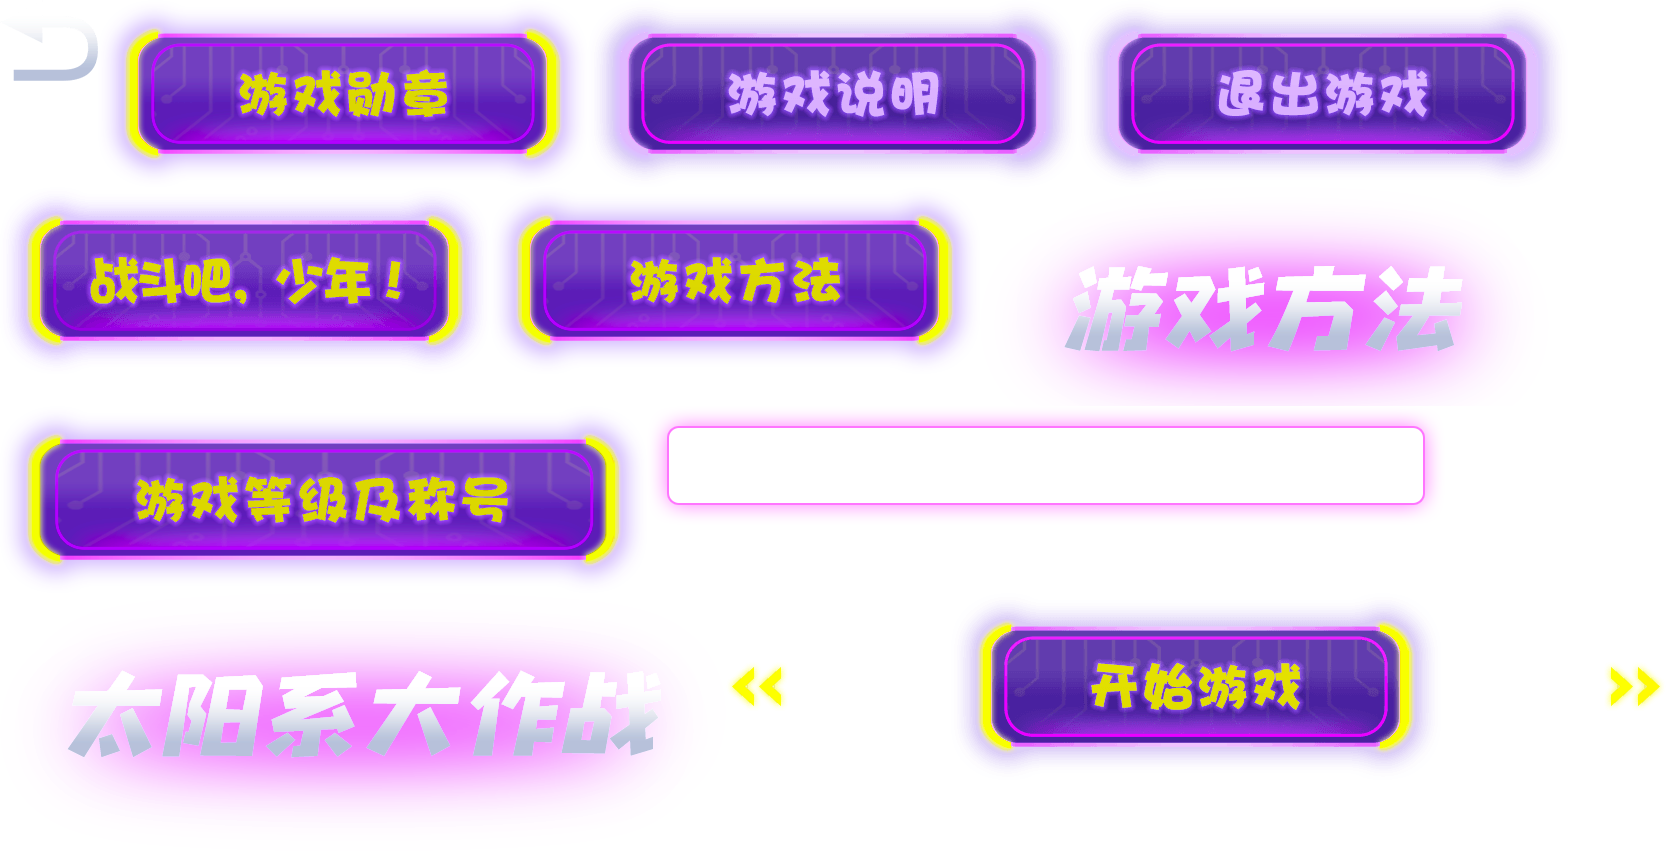
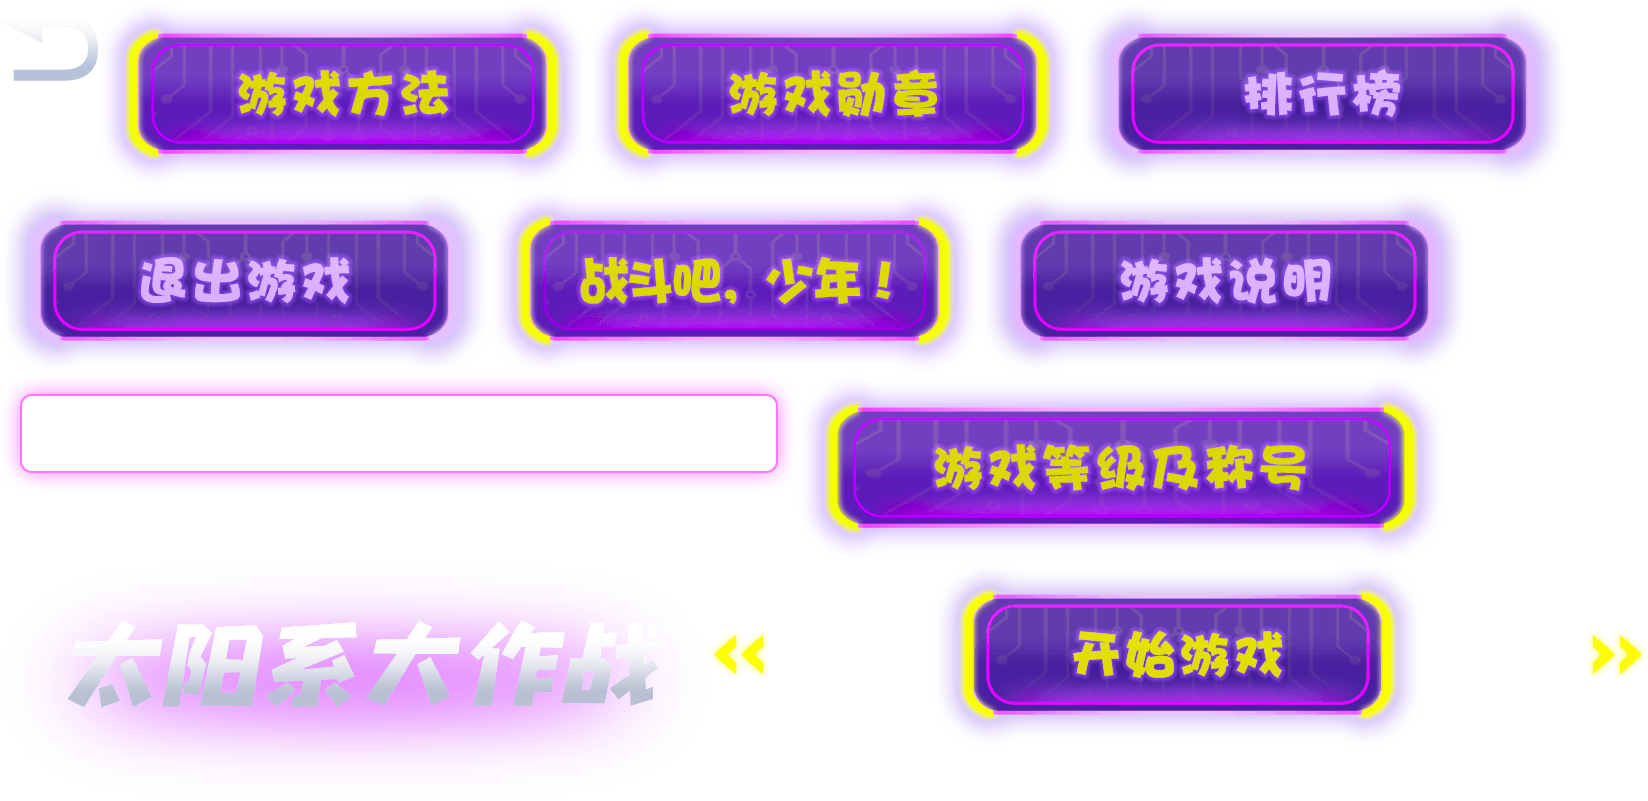
昵称为空判断

diff --git a/src/dlScene.js b/src/dlScene.js
@@ -200,6 +200,27 @@ var dlLayer = cc.Layer.extend({
                     // cc.director.runScene( new mainGameScene( ) );
                     var userName=nickName.getString();
                     var userPwd=pwd.getString();
+                    if(userName==""){
+                        var errorImg=new cc.Sprite("res/error.png");
+                        errorImg.attr({
+                            x:visibleOrigin.x+visibleSize.width/2,
+                            y:visibleOrigin.y+visibleSize.height/2
+                        });
+                        errorImg.setTag(1);
+                        layer.addChild(errorImg,10);
+                        var text = new ccui.Text("昵称不能为空", "Microsoft Yahei", 35);
+                        text.attr({
+                            x:visibleOrigin.x+visibleSize.width/2,
+                            y:visibleOrigin.y+visibleSize.height/2
+                        });
+                        text.setTag(2);
+                        layer.addChild(text,10);
+
+                        setTimeout(function(){
+                            layer.removeChildByTag(1);
+                            layer.removeChildByTag(2);
+                        },1000)
+                    }
                     console.log(userName,userPwd);
                         $.ajax({
                             type: "post",

diff --git a/src/playGameScene.js b/src/playGameScene.js
@@ -131,6 +131,27 @@ var playGameLayer = cc.Layer.extend({
                 // cc.director.runScene( new mainGameScene( ) );
                 // 获取用户输入昵称
                 var userName=nickNameInfo.getString();
+                if(userName==""){
+                    var errorImg=new cc.Sprite("res/error.png");
+                    errorImg.attr({
+                        x:visibleOrigin.x+visibleSize.width/2,
+                        y:visibleOrigin.y+visibleSize.height/2
+                    });
+                    errorImg.setTag(1);
+                    layer.addChild(errorImg,10);
+                    var text = new ccui.Text("昵称不能为空", "Microsoft Yahei", 35);
+                    text.attr({
+                        x:visibleOrigin.x+visibleSize.width/2,
+                        y:visibleOrigin.y+visibleSize.height/2
+                    });
+                    text.setTag(2);
+                    layer.addChild(text,10);
+
+                    setTimeout(function(){
+                        layer.removeChildByTag(1);
+                        layer.removeChildByTag(2);
+                    },1000)
+                }
                 $.ajax({
                     type: "post",
                     url: "http://192.168.5.100:8080/gameUser/userRegister.do",

diff --git a/src/loginScene.js b/src/loginScene.js
@@ -218,7 +218,21 @@ var loginLayer = cc.Layer.extend({
                 "#weixin.png",
                 "#weixin.png",
                 function(){
-
+                    wx.login({
+                        success(res) {
+                            if (res.code) {
+                                // 发起网络请求
+                                wx.request({
+                                    url: 'https://test.com/onLogin',
+                                    data: {
+                                        code: res.code
+                                    }
+                                })
+                            } else {
+                                console.log('登录失败！' + res.errMsg)
+                            }
+                        }
+                    })
                 },this
             );
             weixin.attr({

diff --git a/src/app.js b/src/app.js
@@ -100,8 +100,8 @@ var HelloWorldLayer = cc.Layer.extend({
 
             // 排行榜
             var rankMenuItem=new cc.MenuItemImage(
-                "res/medalBtn.png",
-                "res/medalBtn.png",
+                "#medalBtn.png",
+                "#medalBtn.png",
                 function(){
                     cc.director.runScene( new topScene( ) );
                 },this
